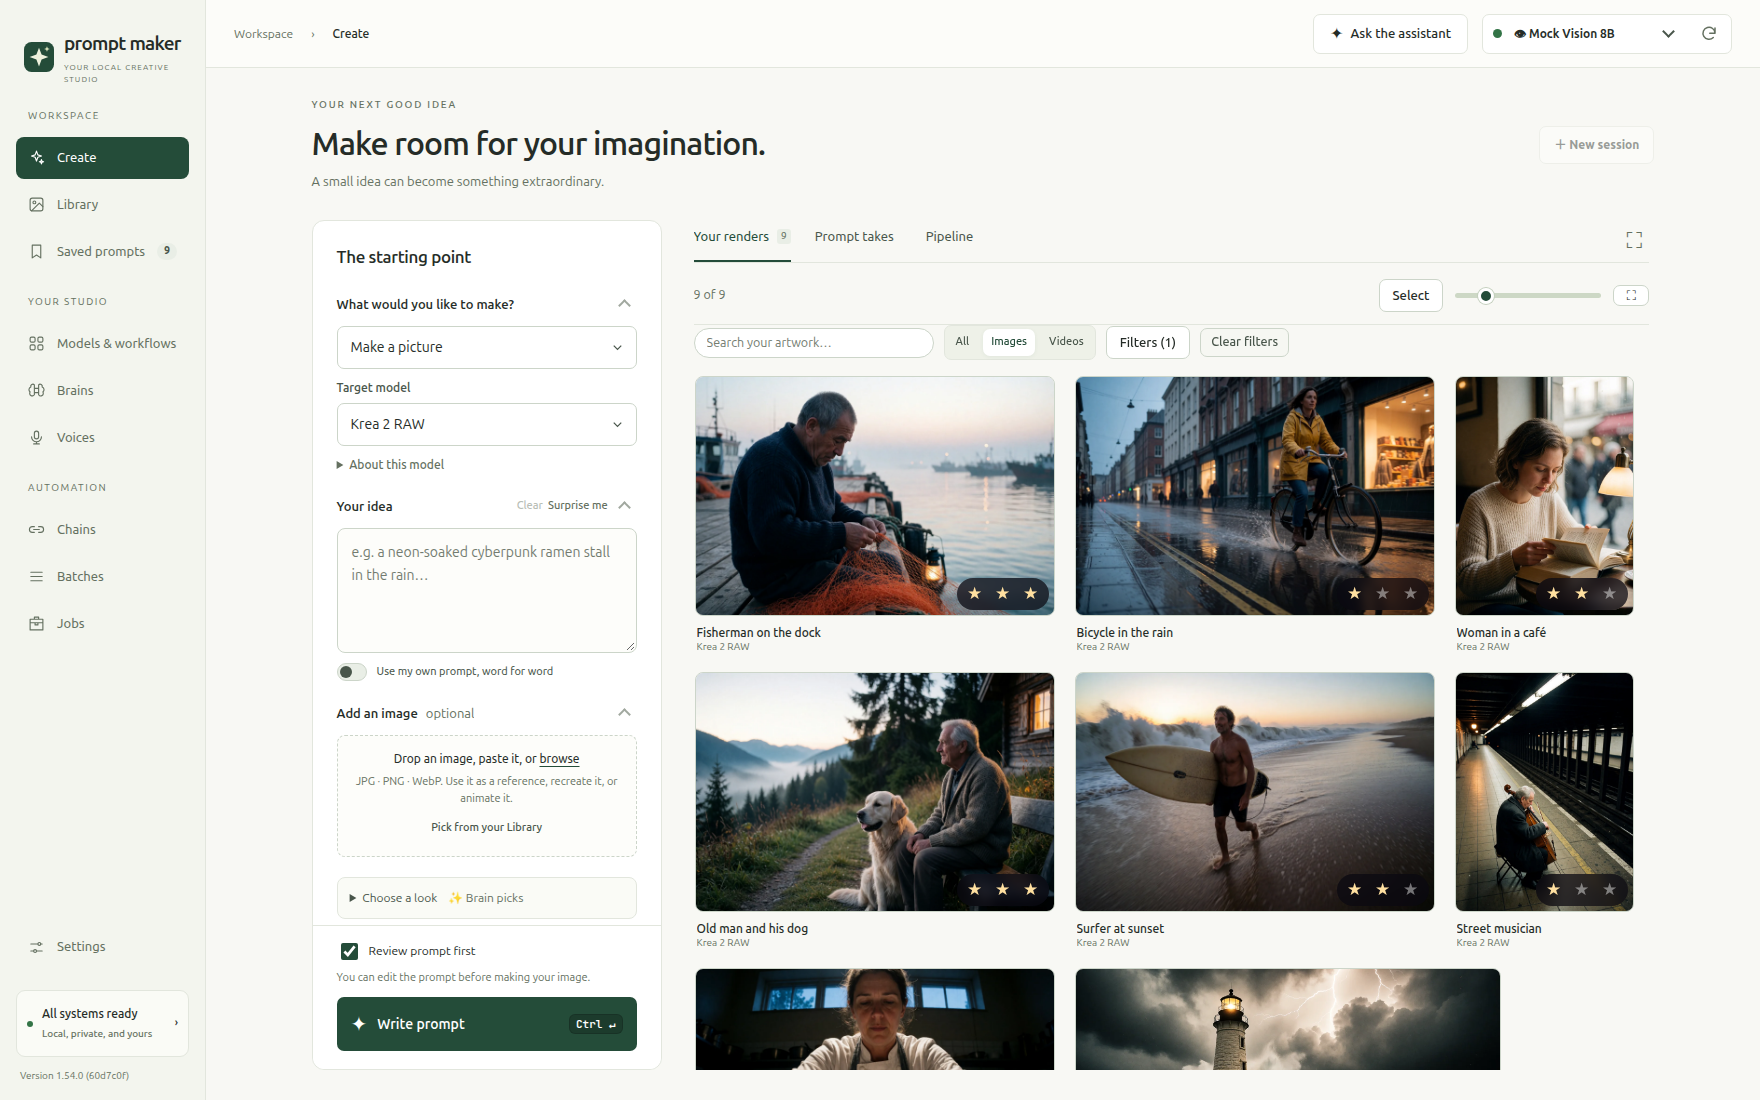
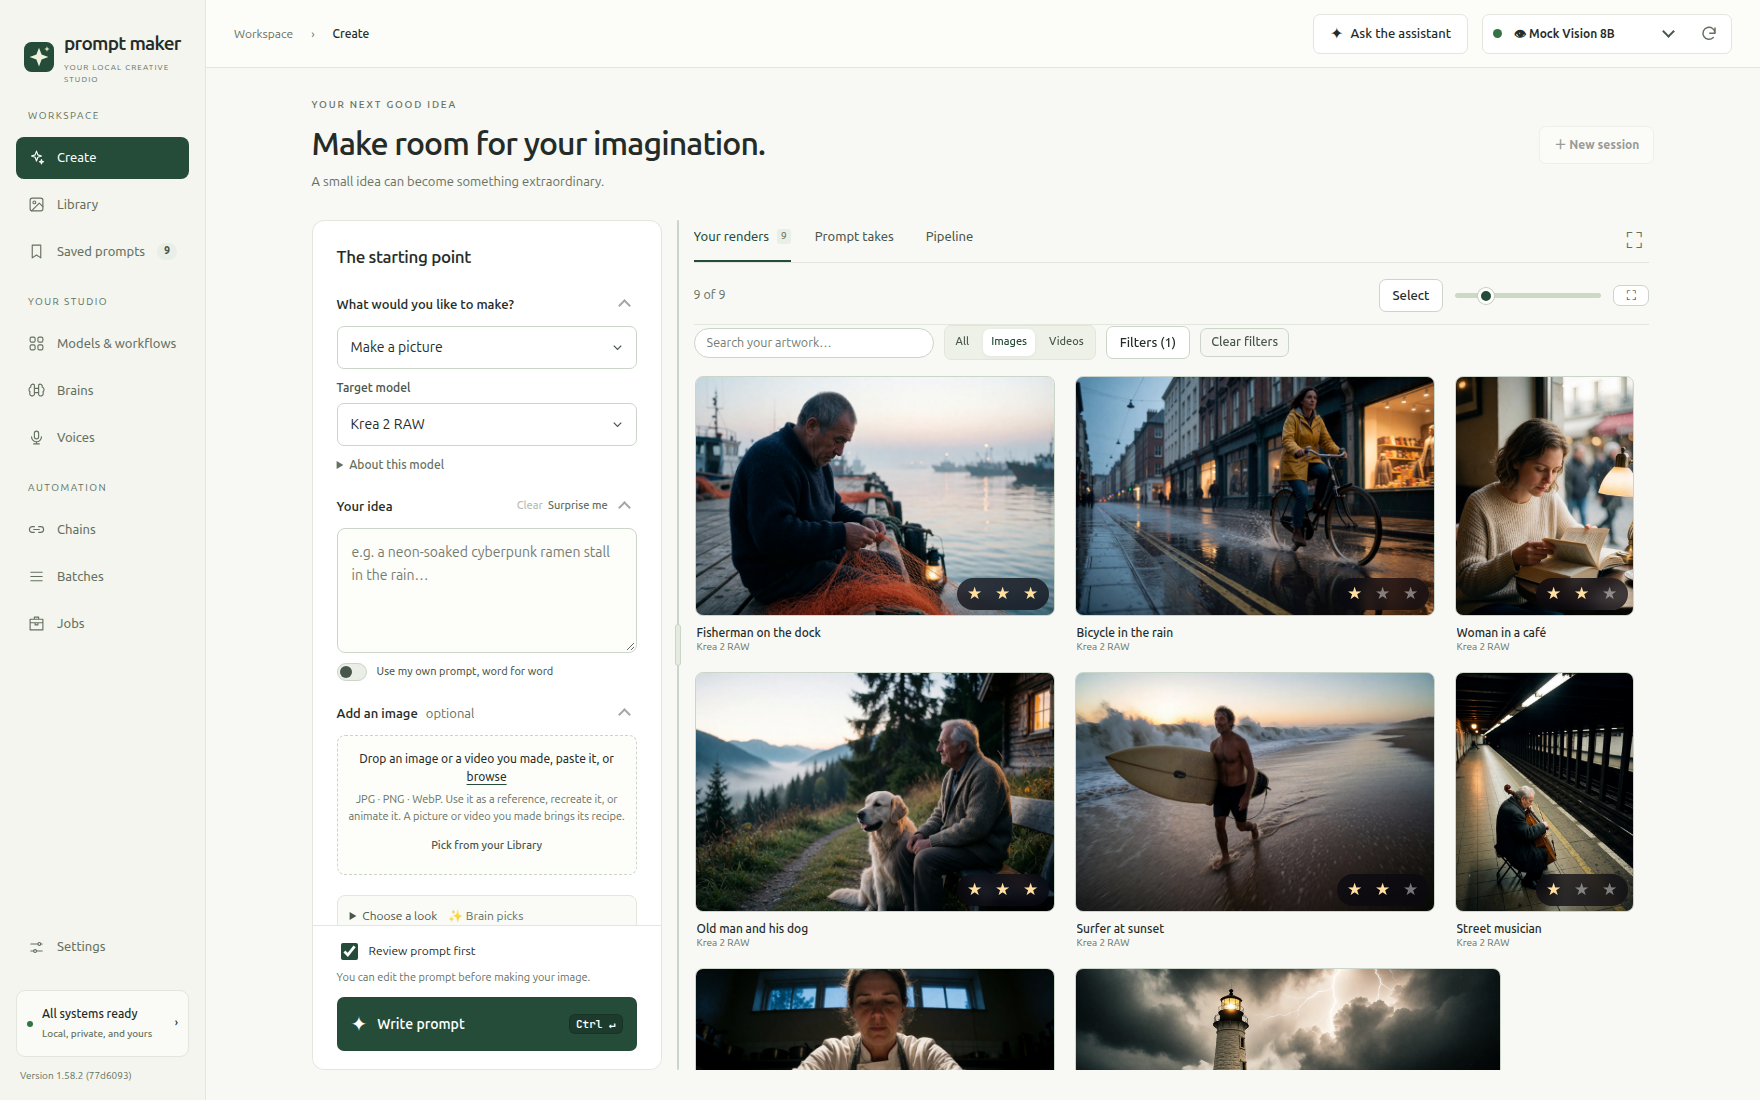
Create's Your renders, Prompt takes and Pipeline tabs stay in place while their results scroll (the UI side's change: .stage-tabs sticky, under the Create/Results switch on a narrow window), so switching views is in reach even at the bottom of a long set of takes. Review fixes: the error message sit

Changed region(s): [[0.1875, 0.68, 0.3438, 0.7727], [0.1875, 0.8036, 0.3125, 0.8345]]

diff --git a/public/app.css b/public/app.css
@@ -602,8 +602,8 @@ dialog.modal.trim-dlg { width: min(1180px, calc(100vw - 32px)); }
 @keyframes blink { 50% { opacity: 0.35; } }
 
 /* ---------- stage (results) ---------- */
-.stage { min-width: 0; display: flex; flex-direction: column; gap: 16px; }
-.stage-tabs { display: flex; gap: 4px; padding: 3px; border-radius: 14px; background: var(--panel-2); border: 1px solid var(--line-2); align-self: flex-start; max-width: 100%; }
+.stage { min-width: 0; display: flex; flex-direction: column; gap: 16px; scroll-padding-top: 60px; } /* what scrolls into view stops under the tabs, not behind them */
+.stage-tabs { position: sticky; top: 0; z-index: 7; flex: none; display: flex; gap: 4px; padding: 3px; border-radius: 14px; background: var(--panel-2); border: 1px solid var(--line-2); align-self: flex-start; max-width: 100%; }
 .stage-tabs [role="tab"] { display: inline-flex; align-items: center; gap: 8px; min-height: 36px; padding: 6px 14px; border: 0; border-radius: 11px; background: transparent; color: var(--text-2); font-weight: 700; font-size: 14px; white-space: nowrap; cursor: pointer; transition: background 0.15s, color 0.15s; }
 .stage-tabs [role="tab"]:hover { color: var(--text); background: rgb(36 76 57 / 5%); }
 .stage-tabs [role="tab"][aria-selected="true"] { background: var(--panel-solid); color: var(--text); box-shadow: 0 2px 10px -4px #000; }
@@ -685,7 +685,7 @@ dialog.modal.trim-dlg { width: min(1180px, calc(100vw - 32px)); }
 
 /* Lies over the top of the takes until it's closed (--eh: its height and the gap after it, set when it shows), so
    what's under it doesn't move down when it arrives. */
-.error-card { position: sticky; top: var(--stick-top, 0px); z-index: 6; margin-bottom: calc(-1 * var(--eh, 0px)); display: flex; gap: 14px; padding: 16px 18px; border-radius: var(--radius); background: color-mix(in srgb, rgb(255 90 110) 16%, var(--panel-solid)); border: 1px solid rgb(255 90 110 / 45%); box-shadow: var(--shadow); animation: rise 0.3s ease both; }
+.error-card { position: sticky; top: var(--stick-top, 0px); z-index: 8; margin-bottom: calc(-1 * var(--eh, 0px)); display: flex; gap: 14px; padding: 16px 18px; border-radius: var(--radius); background: color-mix(in srgb, rgb(255 90 110) 16%, var(--panel-solid)); border: 1px solid rgb(255 90 110 / 45%); box-shadow: var(--shadow); animation: rise 0.3s ease both; }
 @media (max-width: 900px) { .error-card { --stick-top: calc(var(--topbar-h, 76px) + 8px); } }
 body.narrow .error-card { --stick-top: calc(var(--topbar-h, 76px) + 8px); }
 .error-card .e-ico { font-size: 24px; line-height: 1.2; }
@@ -1753,6 +1753,7 @@ body.narrow .create-switch { display: flex; }
 body.narrow #view-create:not(.show-results) .stage, body.narrow #view-create.show-results .director { display: none; }
 body.narrow .create { min-height: 0; }
 body.narrow .stage { max-height: none; }
+body.narrow .stage-tabs { top: calc(var(--topbar-h, 76px) + var(--banner-h, 0px) + 60px); }
 /* The switch is sticky, so what a switch scrolls to stops under it, not behind it. */
 body.narrow #stage, body.narrow #theme { scroll-margin-top: calc(var(--topbar-h, 76px) + var(--banner-h, 0px) + 70px); }
 .create-switch { position: sticky; top: calc(var(--topbar-h, 76px) + var(--banner-h, 0px)); z-index: 5; gap: 8px; padding: 10px 0; margin-bottom: 10px; background: var(--ink); }
@@ -1762,6 +1763,7 @@ body.narrow #stage, body.narrow #theme { scroll-margin-top: calc(var(--topbar-h,
   .create-switch { display: flex; }
   #view-create:not(.show-results) .stage, #view-create.show-results .director { display: none; }
   #view-create .stage { max-height: none; }
+  .stage-tabs { top: calc(var(--topbar-h, 76px) + var(--banner-h, 0px) + 60px); }
   #stage, #theme { scroll-margin-top: calc(var(--topbar-h, 76px) + var(--banner-h, 0px) + 70px); }
 }
 @media (max-width: 760px) {

diff --git a/public/studio.css b/public/studio.css
@@ -117,7 +117,7 @@ body.as-open:not(.as-over) main { margin-left: var(--sidebar-w); }
 .outcome-hint { font-size: 11px; flex-basis: 100%; }
 .studio-link { display: flex; justify-content: space-between; color: var(--hot); font-size: 13px; text-decoration: underline; text-underline-offset: 3px; }
 .stage { gap: 16px; }
-.stage-tabs { align-self: stretch; border: 0; border-bottom: 1px solid var(--line); background: transparent; border-radius: 0; padding: 0; gap: 24px; min-height: 43px; }
+.stage-tabs { align-self: stretch; border: 0; border-bottom: 1px solid var(--line); background: var(--ink); border-radius: 0; padding: 0; gap: 24px; min-height: 43px; }
 .stage-tabs [role=tab] { padding: 6px 0 13px; font-size: 13px; font-weight: 450; border-radius: 0; border-bottom: 2px solid transparent; }
 .stage-tabs [role=tab][aria-selected=true] { background: transparent; border-bottom-color: var(--hot); color: var(--hot); box-shadow: none; }
 .stage-tabs [role=tab]:hover { background: transparent; color: var(--hot); }

diff --git a/docs/guide.md b/docs/guide.md
@@ -190,7 +190,7 @@ The sidebar has Workspace (**Create**, **Library**, **Saved prompts**), Your stu
 | **Make it yours** | Click a shape tile (Portrait, Square, Landscape or Wide, each with its exact ratio drawn as a little frame), or open **Exact ratio** for the full list, then pick the size, video duration and the number of alternatives. **Size** lists sizes in the picked shape, from Small (about half a megapixel) through Standard, Large and Extra large to Huge (about four), with HD, Full HD, 2K and 4K by name; it starts on the model's usual size and follows the shape. **✎ Type your own size…** at the bottom takes any width × height; **✓ Use** keeps it in that model's Size menu for good (the last twelve, in your data folder, so after a reboot and in any browser too; at the *Nothing stays* privacy level, for the session only). Pick it and **✕ Forget** takes it out. Your choices (shape, size, duration, and in More options → Writing options prompt length and how adventurous) are kept per model in the data folder too, so the app window, a browser tab and every restart open on what you picked last. |
 | **More options** | One quiet fold at the bottom, closed to start, with two folds inside. **Render** (optional, with ComfyUI): the workflow that renders your takes, edit it or add one, and under **Advanced** its seed, LoRAs and sampler, then auto-render, renders per take and batches (see [Rendering](#rendering-with-comfyui-optional)). **Writing options**: **Prompt length** and **How adventurous** for the Brain's writing, and a link to **Chains** to add more steps, like still → video (see [Chains](#4-chains-build-your-own-pipelines)). |
 
-**The results have three tabs**, beside the form: **Your renders** (every picture and video, in one grid that fills the rest of the window), **Prompt takes** (what the Brain wrote, with its buttons), and **Pipeline** (your chain’s steps and continuation controls). One shows at a time, so switching between them keeps the workspace steady. Before you write anything, the takes tab is one line of ideas to try. Pressing the main button (or opening a saved prompt) shows the takes. A render landing never switches the tab by itself: the Your renders tab gets a dot instead, and you look when you're ready. On a wide window the renders grid fills the stage; on a narrow one the box has a bottom edge to drag. **Drag the divider** between the form and the results to give either side more room (double-click it to reset; arrow keys work on it too). In the render viewer, drag the prompt box's lower-left corner to change its width and height. Both sizes are remembered in your browser.
+**The results have three tabs**, beside the form: **Your renders** (every picture and video, in one grid that fills the rest of the window), **Prompt takes** (what the Brain wrote, with its buttons), and **Pipeline** (your chain’s steps and continuation controls). The tabs stay in place while the results below them scroll. One shows at a time, so switching between them keeps the workspace steady. Before you write anything, the takes tab is one line of ideas to try. Pressing the main button (or opening a saved prompt) shows the takes. A render landing never switches the tab by itself: the Your renders tab gets a dot instead, and you look when you're ready. On a wide window the renders grid fills the stage; on a narrow one the box has a bottom edge to drag. **Drag the divider** between the form and the results to give either side more room (double-click it to reset; arrow keys work on it too). In the render viewer, drag the prompt box's lower-left corner to change its width and height. Both sizes are remembered in your browser.
 
 **Review prompt first** beside the main action remembers your choice per model. The button states the outcome and total count, such as **Make 8 images** for four variations rendered twice. Progress shows **Writing prompt → Making image/video → Ready**. On narrow screens, including a laptop with Ask open, **Create / Results** switches directly between the form and current work. **Your renders**, **Prompt takes**, and **Pipeline** are separate result tabs. Queue status and errors stay visible across them. **Pipeline** shows the steps and choices for a chain and opens when the chain needs your next pick.
 

diff --git a/README.md b/README.md
@@ -66,7 +66,7 @@ You don't write the long, technical prompts these models want. You type a few wo
 
 The light studio layout puts navigation in a sidebar and keeps your work beside a compact Create panel. **Library** holds artwork; **Saved prompts** holds your sessions. **Brains**, **Chains**, **Batches**, and **Jobs** each have their own page. Create’s **Pipeline** tab shows chain progress and lets you choose what continues; Settings groups its controls into clear sections. Existing prompts, renders, workflows, and preferences carry over. Saved prompts with a long shared opening show the words that distinguish them; hover to see the full opening.
 
-In Create’s **Your renders** tab, the gallery is the only scrolling area on the results side; the results tabs and gallery toolbar stay in place. **Prompt takes** and **Pipeline** retain their own scrolling.
+Create’s **Your renders**, **Prompt takes**, and **Pipeline** tabs stay in place while their results scroll. In **Your renders**, the gallery is the only scrolling area on the results side, so its toolbar stays in place too.
 
 Drag the divider between Create’s controls and results left or right to give either side more room. In the lightbox, drag the prompt box’s lower-left corner to change its width and height. Both sizes are remembered in your browser; double-click either handle to reset it. The handles also work with arrow keys.
 

diff --git a/TODO.md b/TODO.md
@@ -23,6 +23,9 @@ and what "done" looks like; done items move to the bottom with the version that 
 
 ## Done
 
+- 1.58.2 — Create's Your renders, Prompt takes and Pipeline tabs stay in place while their results scroll, so switching
+  views is always within reach even at the bottom of a long set of takes or pipeline steps. The error message sits above
+  the tabs (its ✕ was under them), and what scrolls into view there stops below the tabs, not behind them.
 - 1.58.1 — Rendering a take again with the same seed no longer fails with "ComfyUI returned 404 for /view…". ComfyUI
   skipped the job it had just done, Save node included, and named the file it saved last time, which Clean up had
   removed. Each job's end nodes carry a tag of their own now (comfy.tagRun), so the Save node runs again (from
